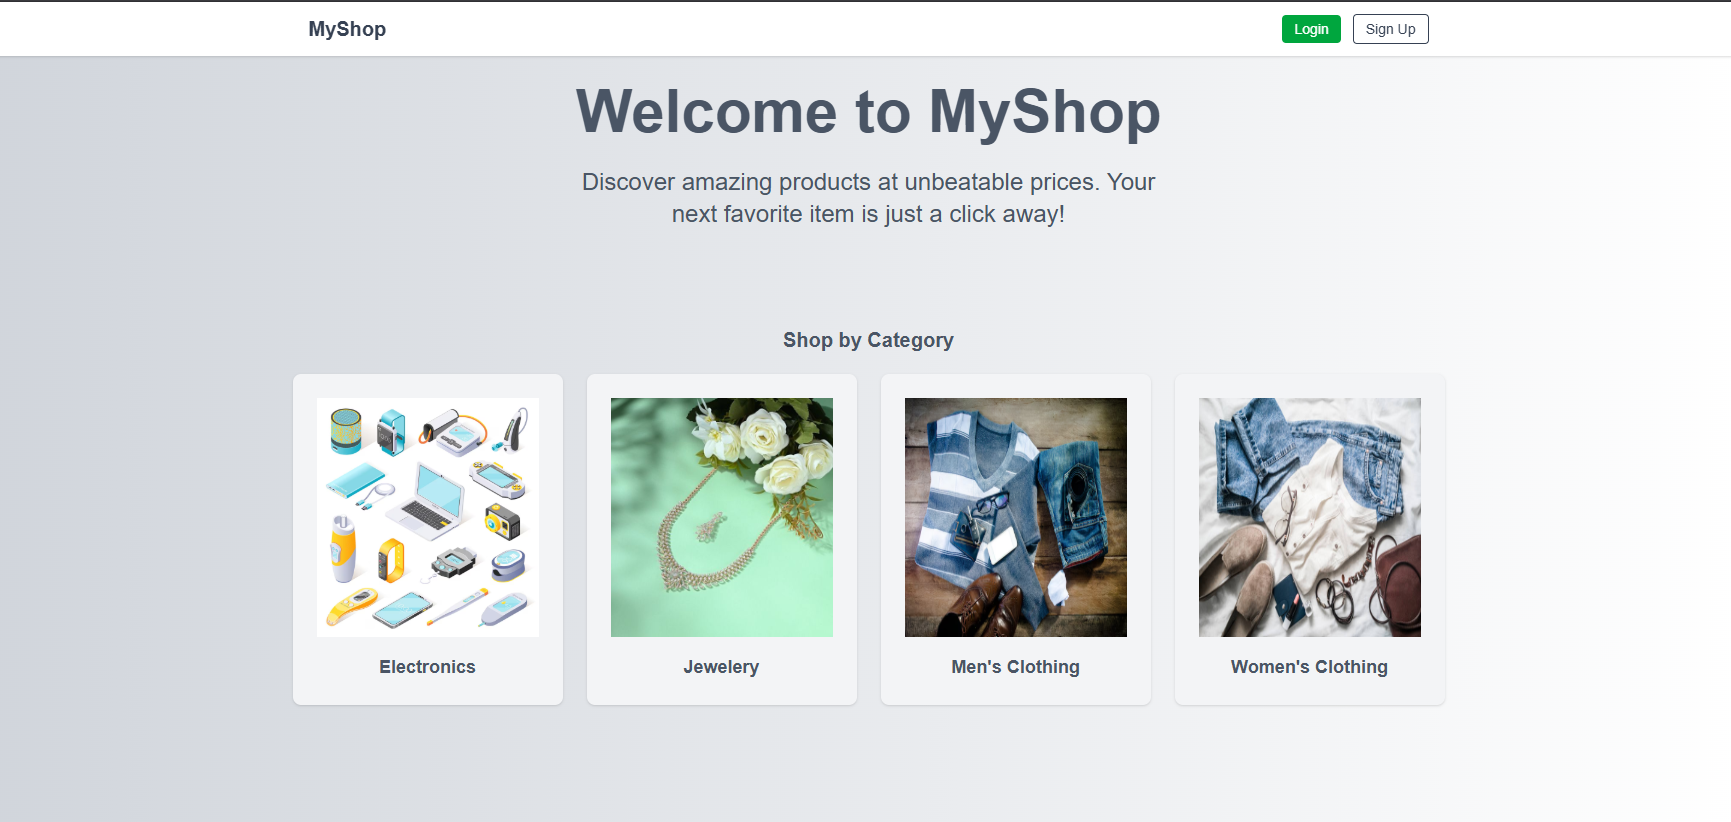
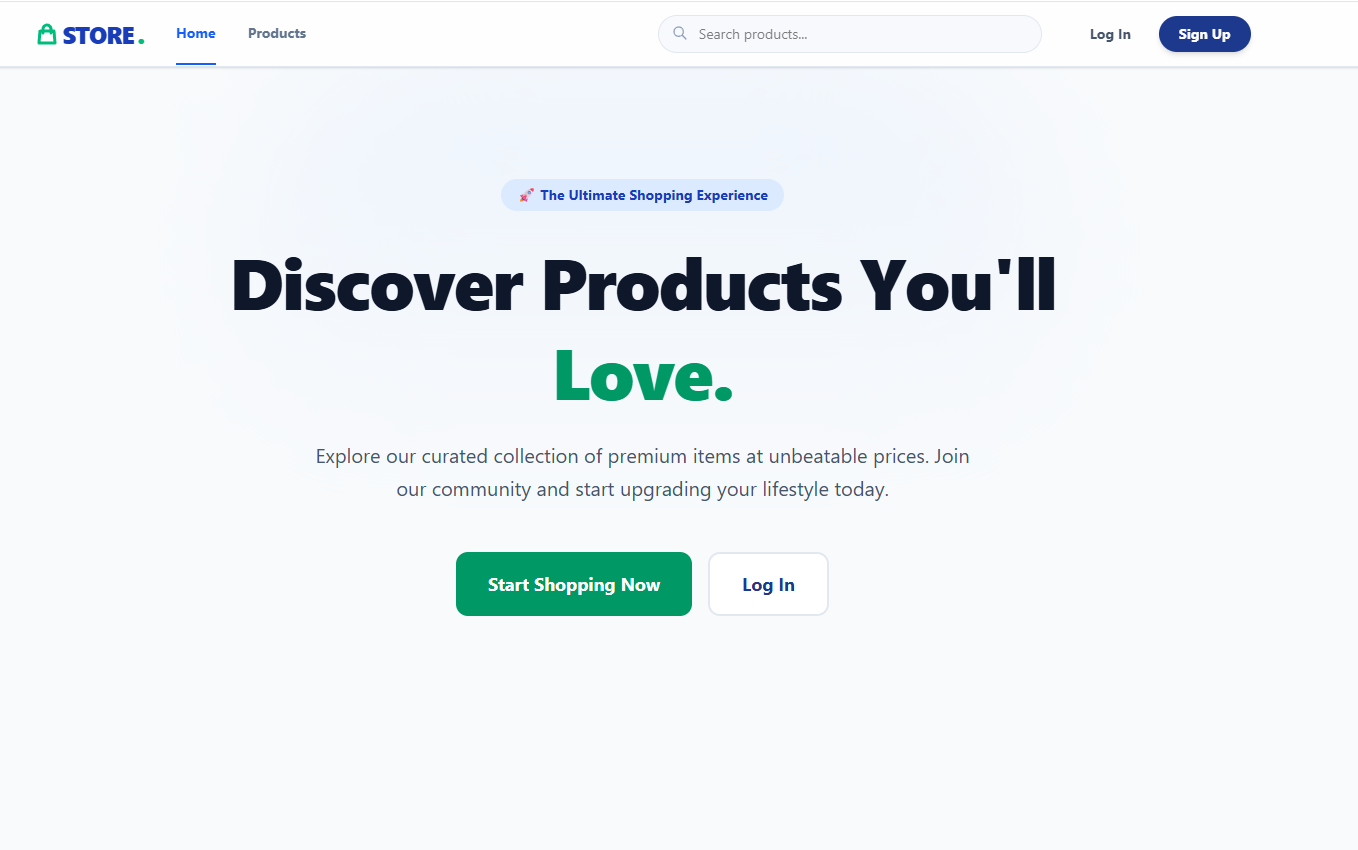
link refixed

diff --git a/src/components/Home.jsx b/src/components/Home.jsx
@@ -177,7 +177,7 @@ function Home() {
             </div>
             <div className="flex flex-wrap items-center gap-2">
               <span className="tech font-semibold">Live-link : </span>
-              <a href="https://ecomerce-ashy-three.vercel.app/" className="transform transition-transform duration-300 hover:scale-103 p-2 border-1 rounded-2xl">
+              <a href="https://ecomerce-ashy-three.vercel.app" className="transform transition-transform duration-300 hover:scale-103 p-2 border-1 rounded-2xl">
                 <img src={ecom} className="w-100 rounded-2xl" alt="" />
               </a>
             </div>
